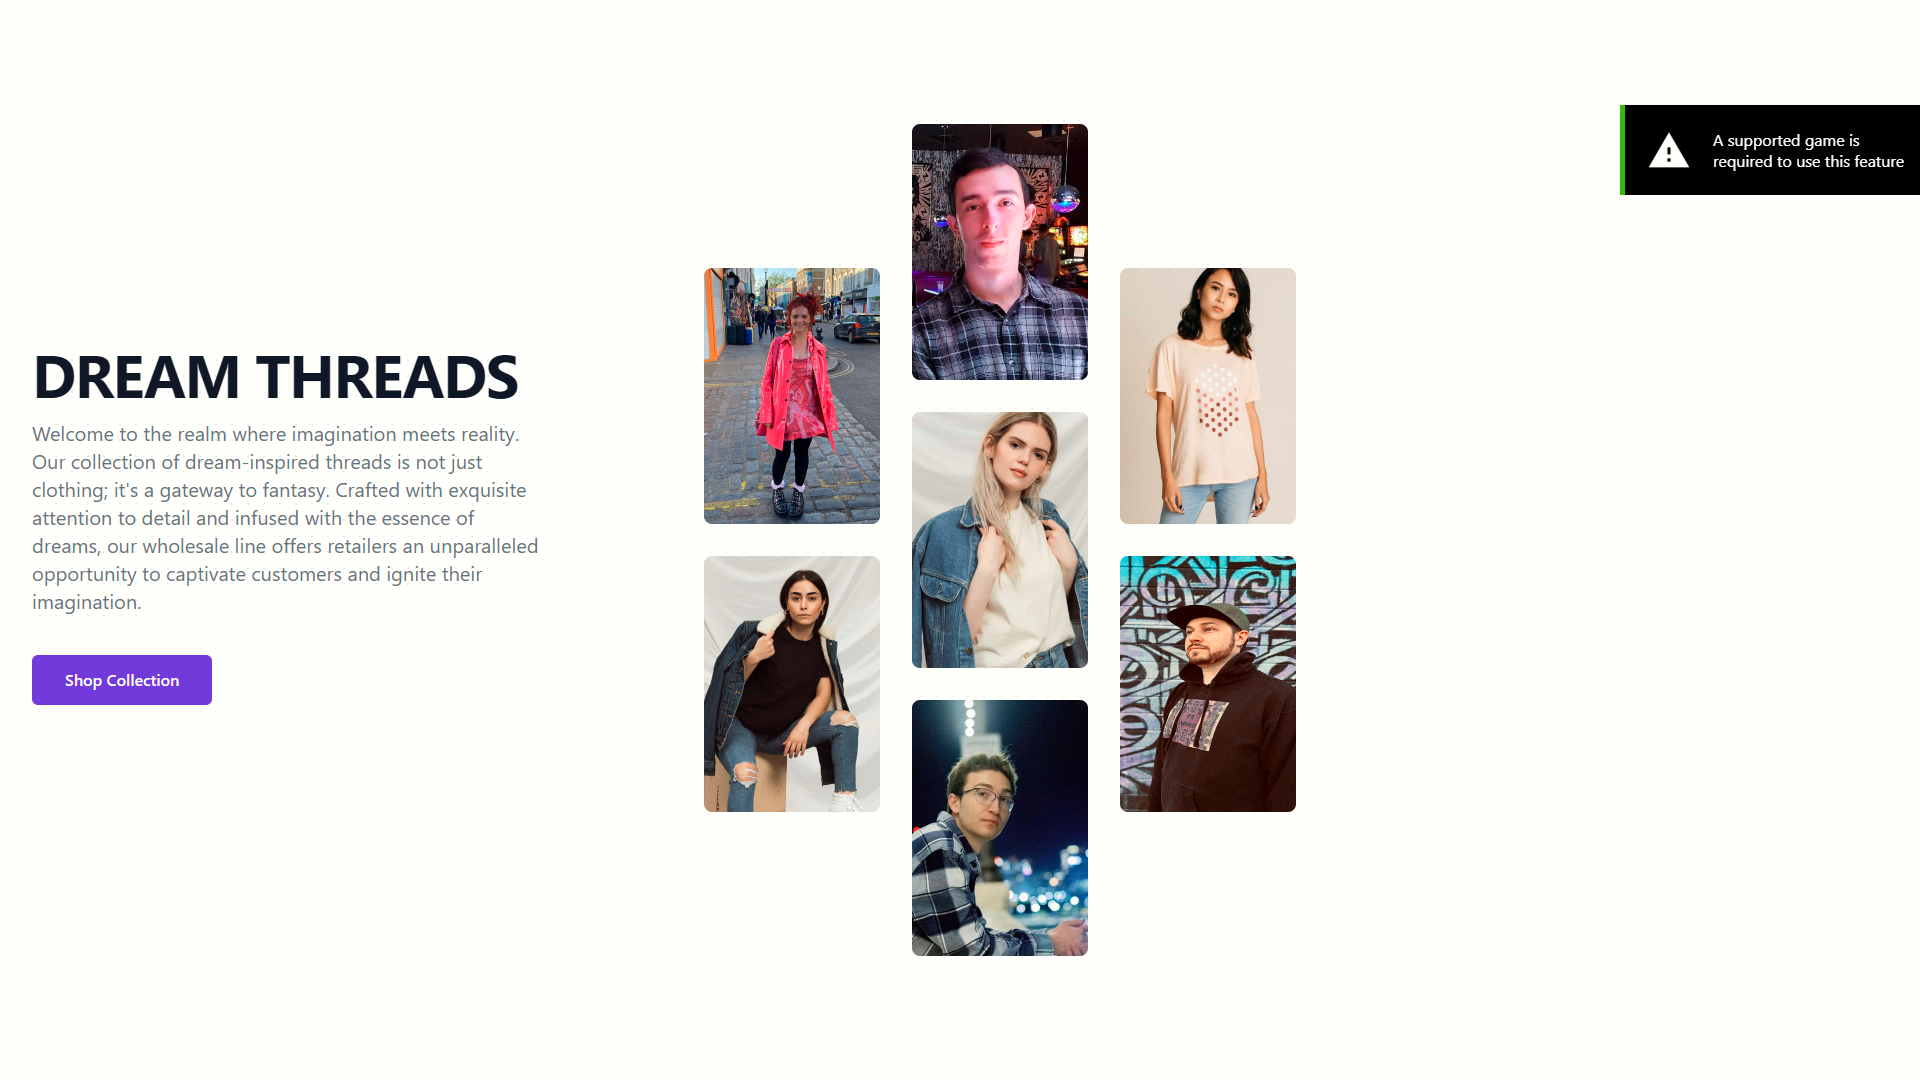
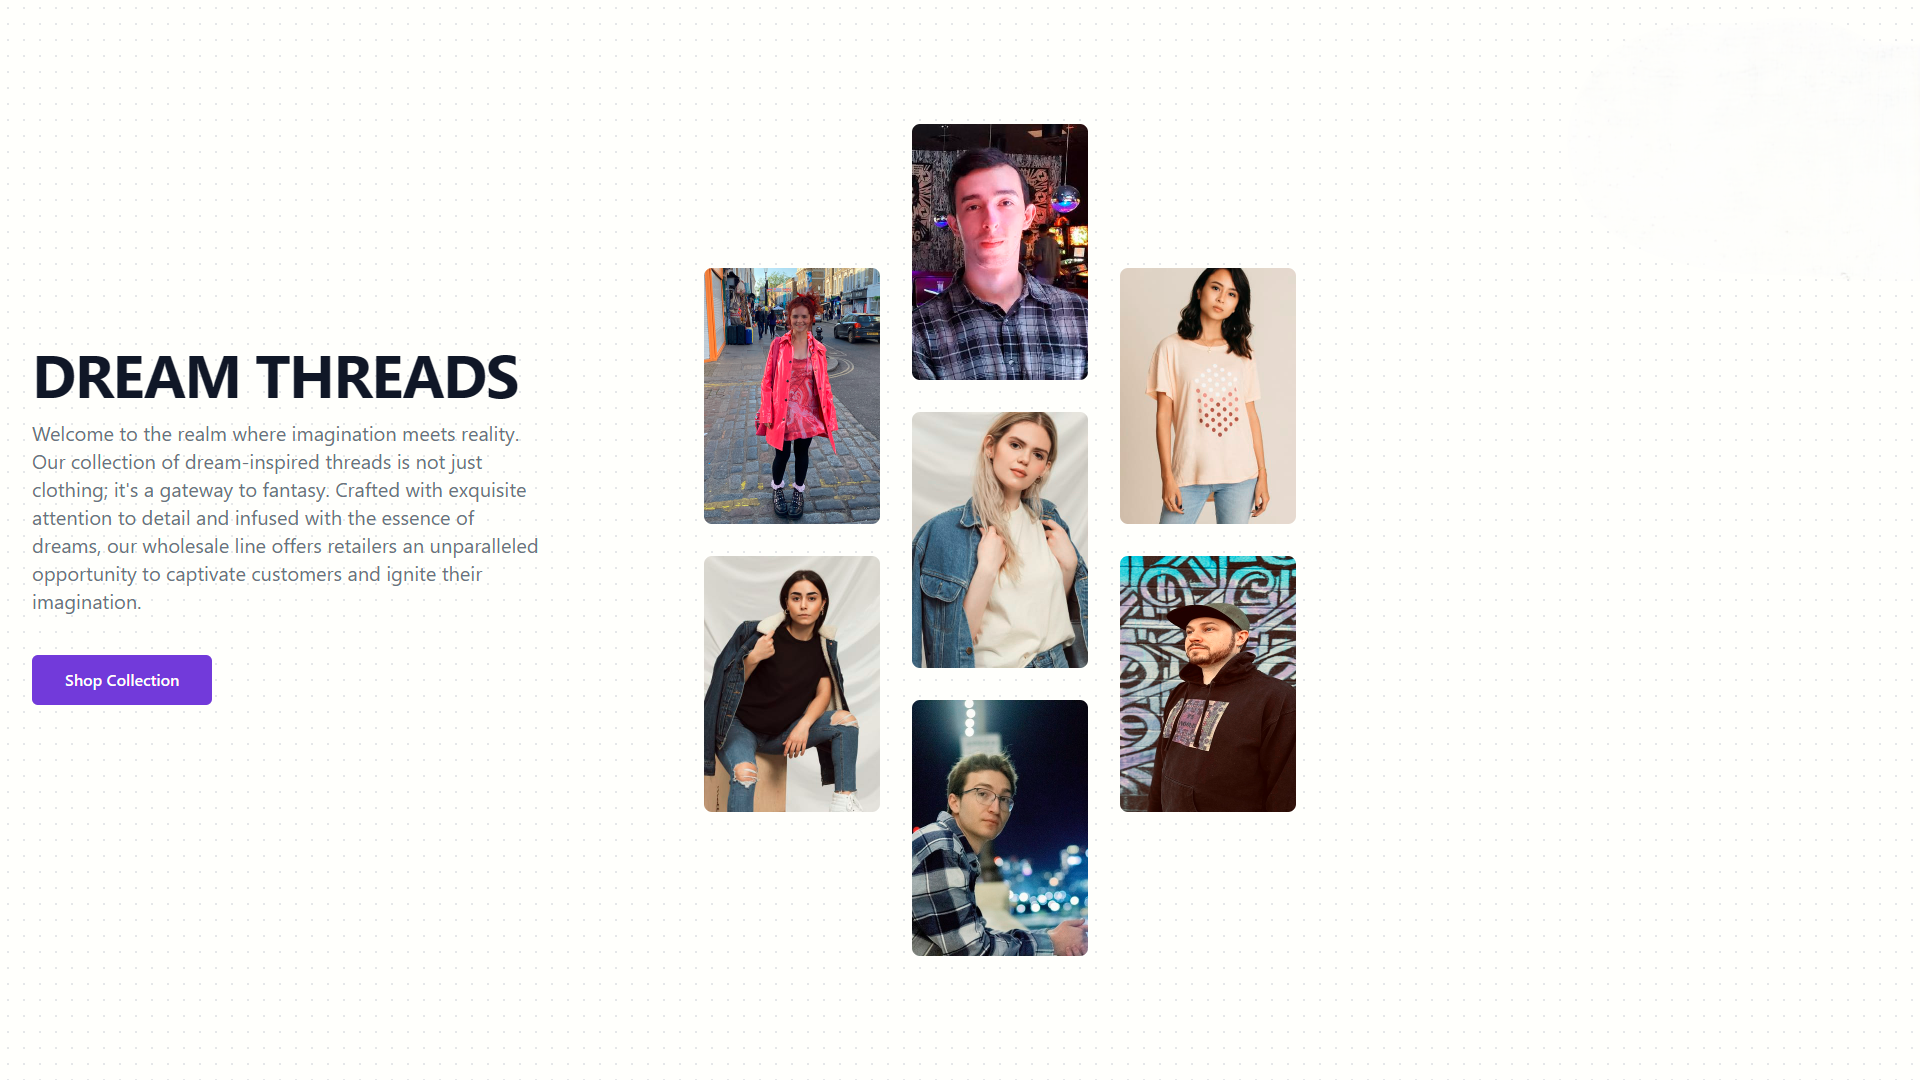
working on different borders for projects

Changed region(s): [[0.8438, 0.0917, 1.0, 0.1833]]

diff --git a/index.html b/index.html
@@ -71,7 +71,14 @@
     media="screen"
     rel="stylesheet"
   />
+
+  <link
+    href="assets/styles/styles.css"
+    rel="stylesheet"
+  />
   
+  
+
   <script
     defer
     src="https://unpkg.com/@alpine-collective/toolkit@1.0.0/dist/cdn.min.js"
@@ -148,6 +155,9 @@
             class="block h-0.5 w-full bg-transparent group-hover:bg-yellow"
           ></span>
         </li>
+
+
+        
         
         
         
@@ -179,6 +189,19 @@
           <span
             class="block h-0.5 w-full bg-transparent group-hover:bg-yellow"
           ></span>
+        </li>
+
+        <li class="group pl-6">
+          <H6>
+          <label class="switch">
+            <input type="checkbox">
+            <span class="slider round" onclick="Light()"></span>
+          </label>
+          
+          <span
+            class="block h-0.5 w-full bg-transparent group-hover:bg-yellow"
+          ></span>
+          </H6>
         </li>
         
       </ul>
@@ -566,25 +589,61 @@
   </h3>
 
   <div
-    class="mx-auto grid w-full grid-cols-1 gap-8 pt-12 sm:w-3/4 md:gap-10 lg:w-full lg:grid-cols-2"
+    class="mx-auto grid w-full grid-cols-1 gap-8 pt-12 sm:w-3/4 md:gap-10 lg:w-full lg:grid-cols-2 shadow-red-600"
   >
-    <a
-      href="https://dfyerman.github.io/The-Companies-Payroll/"
-      class="mx-auto transform transition-all hover:scale-105 md:mx-0"
-    >
+    
+ 
+
+    <a class="mx-auto transform transition-all hover:scale-105 md:mx-0  " href="#" class="block">
       <img
-        src="/assets/img/Employee Payroll Tracker.jpg"
-        class="w-full shadow"
-        alt="portfolio image"
+        alt=""
+        src="/assets/img/Desktop Screenshot 2024.07.09 - 02.37.02.19.png"
+        class="h-56 w-full rounded-bl-3xl rounded-tr-3xl object-cover sm:h-64 lg:h-72 border-8 border-sky-500 "
       />
+    
+      <div class="mt-4 sm:flex sm:items-center sm:justify-center sm:gap-4 ">
+        <strong class="font-large ">JavaScript, CSS, HTML5</strong>
+    
+        <span class="hidden sm:block sm:h-px sm:w-8 sm:bg-yellow-500"></span>
+    
+        <p class="mt-0.5  opacity-50 sm:mt-0">Employee Payroll Tracker - This application is using a window prompt to gather information regarding a employee name, and salary.</p>
+      </div>
     </a>
+  
+    <a class="mx-auto transform transition-all hover:scale-105 md:mx-0   " href="#" class="block">
+    <article class="relative overflow-hidden rounded-lg shadow transition hover:shadow-lg " >
+      <img
+        alt=""
+        src="/assets/img/Desktop Screenshot 2024.07.09 - 02.37.02.19.png"
+        class="absolute inset-0 h-full w-full object-cover border-8 border-sky-500"
+      />
+    
+      <div class="relative bg-gradient-to-t from-gray-900/50 to-gray-900/25 pt-32 sm:pt-48 lg:pt-64">
+        <div class="p-4 sm:p-6">
+          
+    
+            <h2 class="mt-0.5 text-lg text-black">Employee Payroll Tracker</h2>
+            <h3 class="mt-0.5 text-lg text-black">JavaScript, CSS, HTML</h3>
+          
+    
+          <p class="mt-2 line-clamp-3 text-sm/relaxed text-white/95">
+            Lorem ipsum dolor sit amet, consectetur adipisicing elit. Recusandae dolores, possimus
+            pariatur animi temporibus nesciunt praesentium dolore sed nulla ipsum eveniet corporis
+            quidem, mollitia itaque minus soluta, voluptates neque explicabo tempora nisi culpa eius
+            atque dignissimos. Molestias explicabo corporis voluptatem?
+          </p>
+        </div>
+      </div>
+    </article>
+  </a>
+
     <a
       href="https://note-taker-p6cf.onrender.com"
       class="mx-auto transform transition-all hover:scale-105 md:mx-0"
     >
       <img
         src="/assets/img/Note Taker.png"
-        class="w-full shadow"
+        class="w-full shadow border-8 border-sky-500 "
         alt="portfolio image"
       />
     </a>
@@ -594,7 +653,7 @@
     >
       <img
         src="/assets/img/Dream Threads.png"
-        class="w-full shadow"
+        class="w-full shadow border-8 border-sky-500"
         alt="portfolio image"
       />
     </a>
@@ -604,7 +663,7 @@
     >
       <img
         src="/assets/img/portfolio-microsoft.jpeg"
-        class="w-full shadow"
+        class="w-full shadow border-8 border-sky-500"
         alt="portfolio image"
       />
     </a>

diff --git a/assets/styles/styles.css b/assets/styles/styles.css
@@ -1,0 +1,66 @@
+.dark-mode {
+    background-color: rgb(50, 50, 50);
+    color: white;
+}
+
+.switch {
+    position: relative;
+    display: inline-block;
+    width: 60px;
+    height: 34px;
+  }
+  
+  .switch input { 
+    opacity: 0;
+    width: 0;
+    height: 0;
+  }
+  
+  .slider {
+    position: absolute;
+    cursor: pointer;
+    top: 0;
+    left: 0;
+    right: 0;
+    bottom: 0;
+    background-color: #ccc;
+    -webkit-transition: .4s;
+    transition: .4s;
+  }
+  
+  .slider:before {
+    position: absolute;
+    content: "";
+    height: 26px;
+    width: 26px;
+    left: 4px;
+    bottom: 4px;
+    background-color: white;
+    -webkit-transition: .4s;
+    transition: .4s;
+  }
+  
+  input:checked + .slider {
+    background-color: #2196F3;
+  }
+  
+  input:focus + .slider {
+    box-shadow: 0 0 1px #2196F3;
+  }
+  
+  input:checked + .slider:before {
+    -webkit-transform: translateX(26px);
+    -ms-transform: translateX(26px);
+    transform: translateX(26px);
+  }
+  
+  /* Rounded sliders */
+  .slider.round {
+    border-radius: 34px;
+  }
+  
+  .slider.round:before {
+    border-radius: 50%;
+  }
+
+  p.solid {border-style: solid;}

diff --git a/assets/styles/main.min.css b/assets/styles/main.min.css
@@ -644,6 +644,7 @@ select {
   --tw-contain-layout:  ;
   --tw-contain-paint:  ;
   --tw-contain-style:  ;
+  border-color:rgb(228, 228, 228);
 }
 
 ::-webkit-backdrop {
@@ -1652,14 +1653,17 @@ html {
 
 .border {
   border-width: 1px;
+  border-color: rgb(229 231 235);;
 }
 
 .border-0 {
   border-width: 0px;
+  
 }
 
 .border-2 {
   border-width: 2px;
+  border-color: rgb(229 231 235);;
 }
 
 .border-8 {
@@ -1731,7 +1735,7 @@ html {
 
 .bg-black {
   --tw-bg-opacity: 1;
-  background-color: rgb(0 0 0 / var(--tw-bg-opacity));
+  background-color: lightgray;
 }
 
 .bg-grey-40 {

diff --git a/tailwind.config.js b/tailwind.config.js
@@ -41,7 +41,7 @@ module.exports = {
     },
 
     shadows: {
-      default: "0 2px 18px rgba(0, 0, 0, 0.06)",
+      default: "dc2626",
       md: "0 -3px 36px rgba(0, 0, 0, 0.12)",
     },
 

diff --git a/assets/js/main.js b/assets/js/main.js
@@ -1,0 +1,5 @@
+function Light() {
+    var element = document.body;
+console.log("going dark");
+element.classList.toggle("dark-mode");
+}
